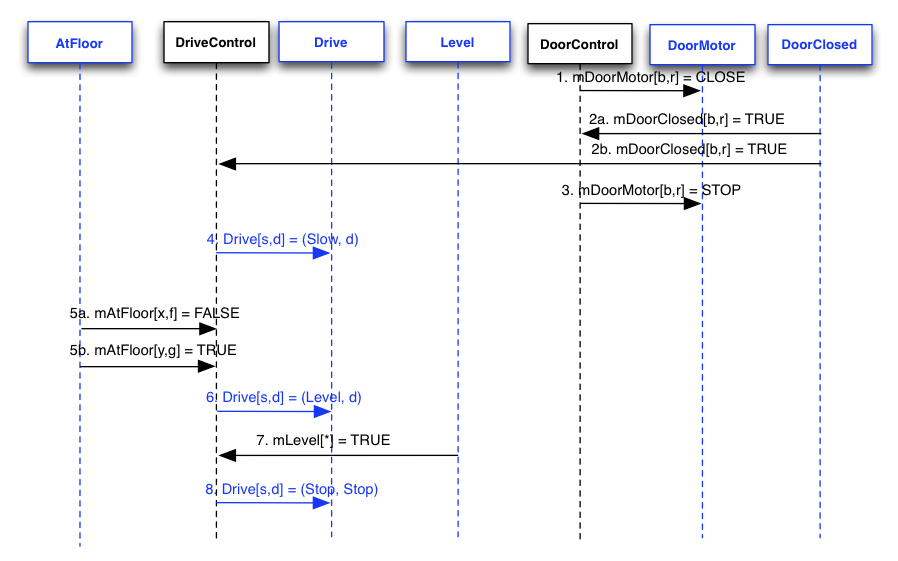
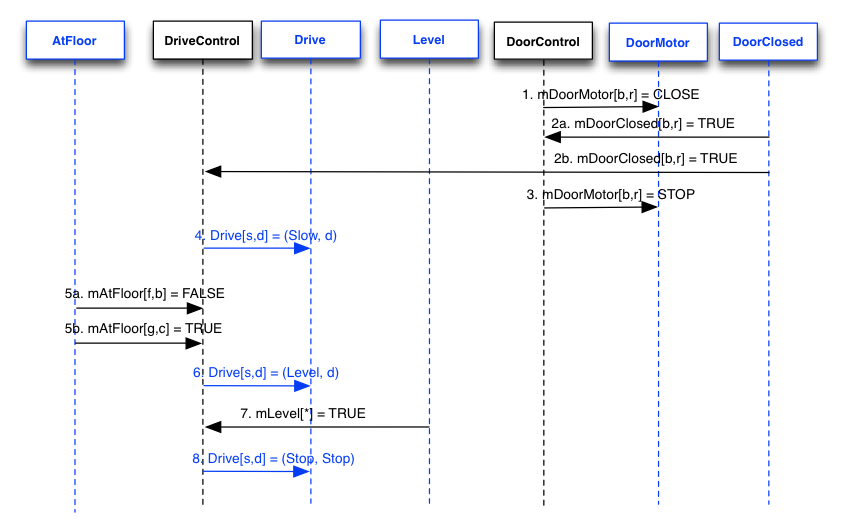
DoorControl CLOSE / NUDGE issue logged

diff --git a/portfolio/scen_sd/scen_sd.html b/portfolio/scen_sd/scen_sd.html
@@ -51,53 +51,13 @@
         <li><a href="#usecase8">8. Move Car to Next Floor</a> </li>
         <li><a href="#usecase9">9. Cycle Doors</a></li>
         <ul>
-          <li><a
-href="file:///Users/Collin/Workspace/ece649-g17/portfolio/scen_sd/scen_sd.html#scenario9a">Scenario
-
-
-
-
-
-
-              9A</a> </li>
-          <li><a
-href="file:///Users/Collin/Workspace/ece649-g17/portfolio/scen_sd/scen_sd.html#scenario9b">Scenario
-
-
-
-
-
-
-              9B</a>&nbsp;</li>
-          <li><a
-href="file:///Users/Collin/Workspace/ece649-g17/portfolio/scen_sd/scen_sd.html#scenario9c">Scenario
-
-
-
-
-
-
-              9C</a></li>
+          <li><a href="#scenario9a">Scenario 9A</a> </li>
+          <li><a href="#scenario9b">Scenario 9B</a>&nbsp;</li>
+          <li><a href="#scenario9c">Scenario 9C</a></li>
         </ul>
-        <li><a
-href="file:///Users/Collin/Workspace/ece649-g17/portfolio/scen_sd/scen_sd.html#usecase10">10.
-
-
-
-
-
-
-            Overweight Sensor</a></li>
+        <li><a href="#usecase10">10. Overweight Sensor</a></li>
         <ul>
-          <li><a
-href="file:///Users/Collin/Workspace/ece649-g17/portfolio/scen_sd/scen_sd.html#scenario10a">Scenario
-
-
-
-
-
-
-              10A<br>
+          <li><a href="#scenario10a">Scenario 10A<br>
             </a></li>
         </ul>
       </ul>
@@ -377,6 +337,7 @@ href="file:///Users/Collin/Workspace/ece649-g17/portfolio/scen_sd/scen_sd.html#s
 
 
 
+
         Case 5: Passenger Triggers Door Reversal </h2>
       <h3> <a name="scenario5a" id="scenario5a"></a>Scenario 5A:
         Passenger attempts to enter the car as the doors begin to close.
@@ -393,6 +354,7 @@ href="file:///Users/Collin/Workspace/ece649-g17/portfolio/scen_sd/scen_sd.html#s
       <ol>
         <li>Door[<b>b</b>,<b>r</b>] starts to close.</li>
         <li>The passenger attempts to enter and is nudged by Door[<b>b</b>,<b>r</b>],
+
 
 
 
@@ -444,6 +406,7 @@ href="file:///Users/Collin/Workspace/ece649-g17/portfolio/scen_sd/scen_sd.html#s
       <ol>
         <li>Door[<b>b</b>,<b>r</b>] starts to close.</li>
         <li>The passenger attempts to exit and is nudged by Door[<b>b</b>,<b>r</b>],
+
 
 
 
@@ -647,7 +610,7 @@ href="file:///Users/Collin/Workspace/ece649-g17/portfolio/scen_sd/scen_sd.html#s
         <li>Car is stopped at hallway[g,c]</li>
       </ul>
       <h3> Sequence Diagram: </h3>
-      <p> <a href="sd8a.png"><img src="sd8a.png"></a></p>
+      <img alt="sd8a" src="sd8a.png" height="526" width="842"><br>
       <div align="center">
         <hr align="center" size="2" width="100%"> </div>
       <p> &nbsp; </p>

diff --git a/portfolio/logs/issuelog.html b/portfolio/logs/issuelog.html
@@ -539,6 +539,48 @@
             sd_req_traceability.xls<br>
           </td>
         </tr>
+        <tr>
+          <td valign="top">26<br>
+          </td>
+          <td valign="top">10/16/2012<br>
+          </td>
+          <td valign="top"><b>Open issue</b><br>
+          </td>
+          <td valign="top">jtiu<br>
+          </td>
+          <td valign="top">SC_DoorControl, SD[1B, 1C, 2A, 2B, 5A, 5B,
+            7C, 8A], all associated unit and integration tests.<br>
+          </td>
+          <td valign="top">Unclear whether DoorControl sets DoorMotor
+            and mDoorMotor to be CLOSE or NUDGE in DOOR_CLOSING state.
+            Code implements NUDGE, but all documentation indicates
+            CLOSE.<br>
+          </td>
+          <td valign="top"><b>Open issue</b><br>
+          </td>
+          <td valign="top"><br>
+          </td>
+        </tr>
+        <tr>
+          <td valign="top">27<br>
+          </td>
+          <td valign="top">10/16/2012<br>
+          </td>
+          <td valign="top">10/16/2012<br>
+          </td>
+          <td valign="top">jtiu<br>
+          </td>
+          <td valign="top">SD8A<br>
+          </td>
+          <td valign="top">mAtFloor[x,f] -&gt; mAtFloor[f,b], and
+            mAtFloor[y,g] -&gt; mAtFloor[g,c] for consistency with
+            scenario steps<br>
+          </td>
+          <td valign="top">Update SD8A<br>
+          </td>
+          <td valign="top">SD8A<br>
+          </td>
+        </tr>
       </tbody>
     </table>
     <br>
